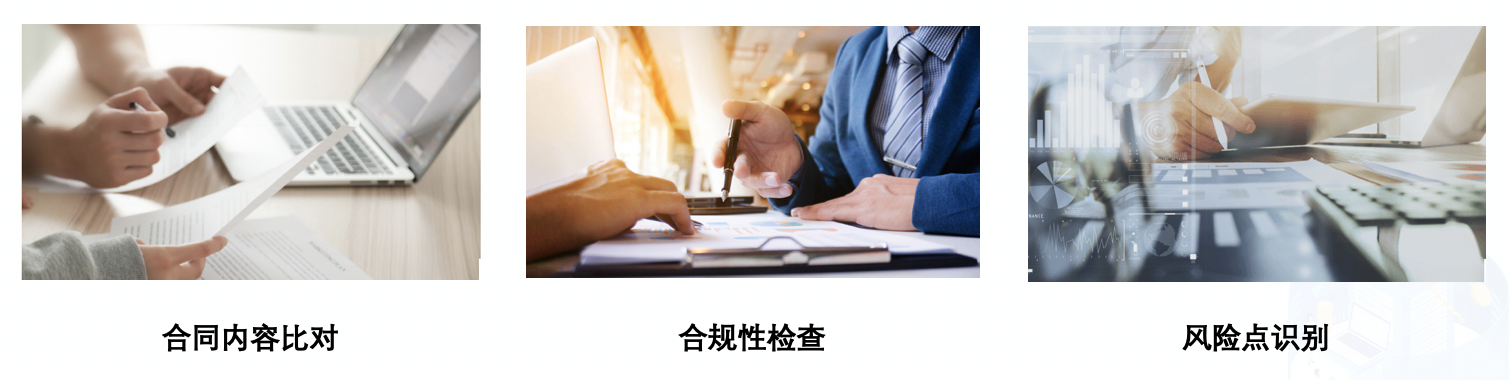
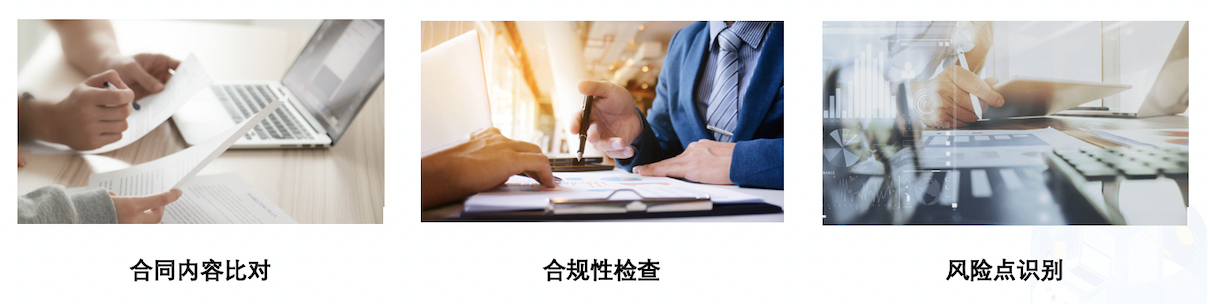
docs: 压缩图像

diff --git a/docs/ppstructure/model_train/train_layout.en.md b/docs/ppstructure/model_train/train_layout.en.md
@@ -8,7 +8,7 @@ comments: true
 
 Layout analysis refers to the regional division of documents in the form of pictures and the positioning of key areas, such as text, title, table, picture, etc. The layout analysis algorithm is based on the lightweight model PP-picodet of [PaddleDetection]( https://github.com/PaddlePaddle/PaddleDetection ), including English layout analysis, Chinese layout analysis and table layout analysis models.  English layout analysis models can detect document layout elements such as text, title, table, figure, list. Chinese layout analysis models can detect document layout elements such as text, figure, figure caption, table, table caption, header, footer, reference, and equation. Table layout analysis models can detect table regions.
 
-![img](./images/layout.png)
+![img](./images/layout.jpg)
 
 ## 2. Quick start
 

diff --git a/docs/ppstructure/model_train/train_layout.md b/docs/ppstructure/model_train/train_layout.md
@@ -9,7 +9,7 @@ comments: true
 
 版面分析指的是对图片形式的文档进行区域划分，定位其中的关键区域，如文字、标题、表格、图片等。版面分析算法基于[PaddleDetection](https://github.com/PaddlePaddle/PaddleDetection)的轻量模型PP-PicoDet进行开发，包含英文、中文、表格版面分析3类模型。其中，英文模型支持Text、Title、Tale、Figure、List5类区域的检测，中文模型支持Text、Title、Figure、Figure caption、Table、Table caption、Header、Footer、Reference、Equation10类区域的检测，表格版面分析支持Table区域的检测，版面分析效果如下图所示：
 
-![img](./images/layout.png)
+![img](./images/layout.jpg)
 
 ## 2. 快速开始
 
